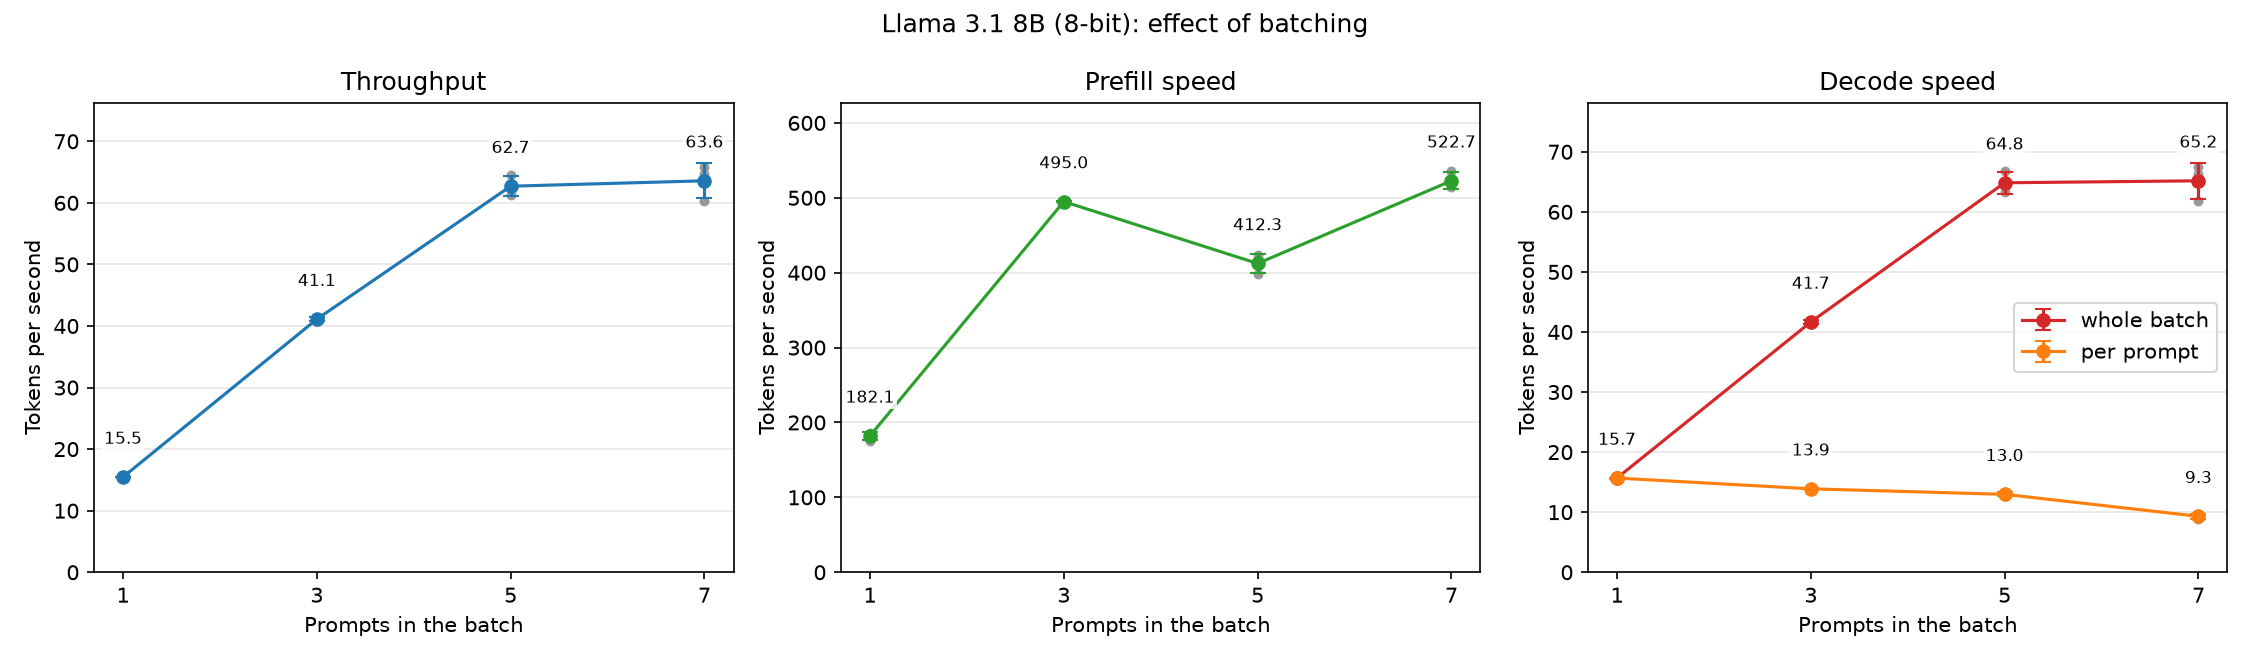
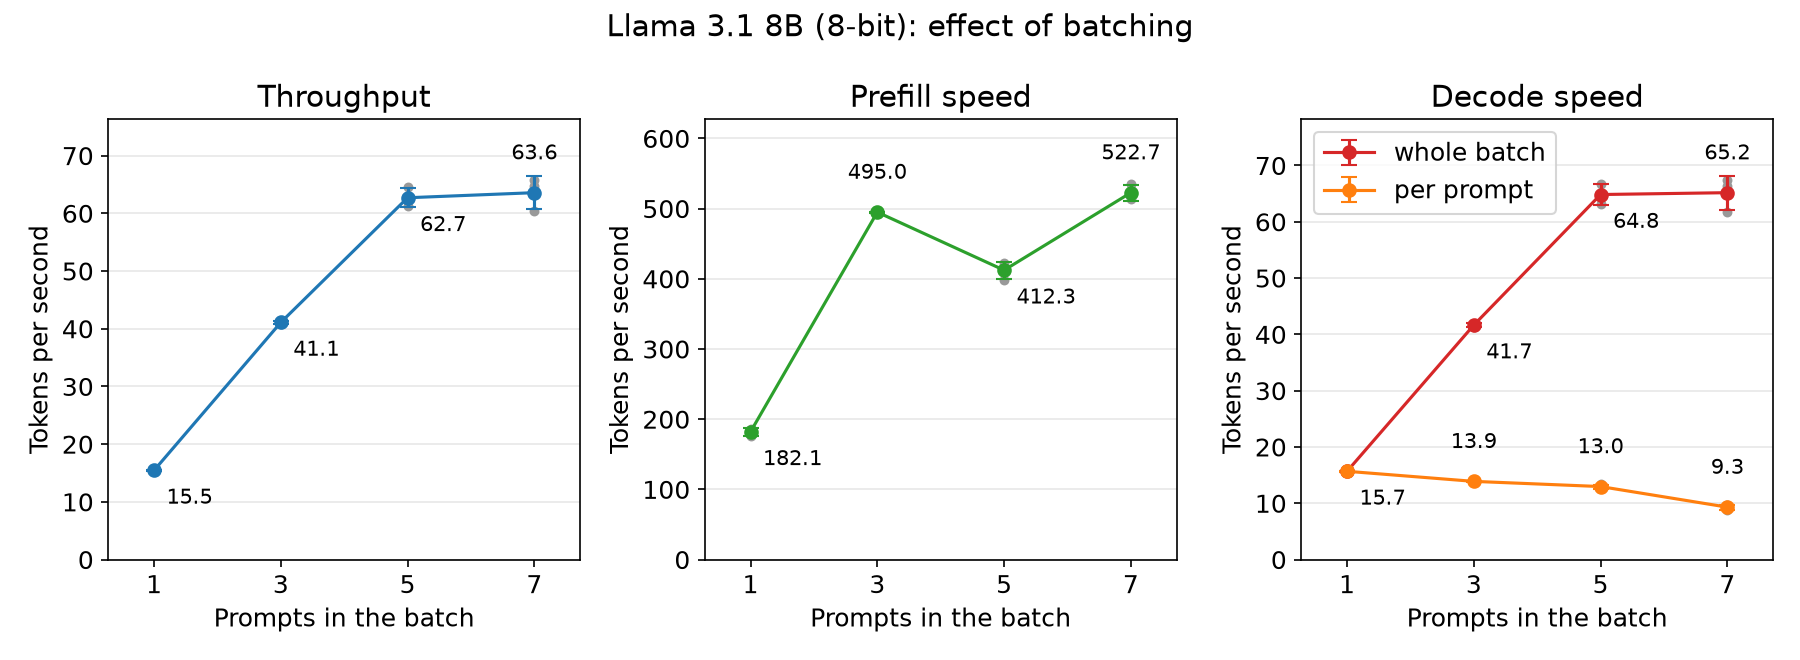
Make the batching plot text larger and keep labels off the lines

diff --git a/results/Experiments/batching_throughput/run_experiment.py b/results/Experiments/batching_throughput/run_experiment.py
@@ -1,4 +1,4 @@
-# Last edited: 2026-10-18 09:50
+# Last edited: 2026-10-18 11:10
 """Measure how batching (1, 3, 5 or 7 prompts at once) changes throughput, prefill speed and decode speed.
 
 Loads the 8-bit Llama 3.1 8B once. For each batch size it runs 1 warm-up trial (dropped) and 3 measured
@@ -109,7 +109,9 @@ def summarize(trial_rows: list[dict]) -> list[dict]:
     return summary
 
 
-def draw_line(ax, trial_rows: list[dict], summary: list[dict], metric: str, color: str, label: str) -> None:
+def draw_line(
+    ax, trial_rows: list[dict], summary: list[dict], metric: str, color: str, label: str, skip_first=False
+) -> None:
     """One metric's mean (with std error bars and labels) and its trials as grey dots."""
     means = [float(s[f"mean_{metric}"]) for s in summary]
     stds = [float(s[f"std_{metric}"]) for s in summary]
@@ -117,22 +119,19 @@ def draw_line(ax, trial_rows: list[dict], summary: list[dict], metric: str, colo
         values = measured(trial_rows, n, metric)
         ax.scatter([n] * len(values), values, color="0.6", s=14, zorder=2)
     ax.errorbar(BATCH_SIZES, means, yerr=stds, marker="o", color=color, capsize=4, zorder=3, label=label)
-    for n, m in zip(BATCH_SIZES, means, strict=True):
-        ax.annotate(
-            f"{m:.1f}",
-            (n, m),
-            textcoords="offset points",
-            xytext=(0, 16),
-            ha="center",
-            fontsize=8,
-            bbox={"boxstyle": "round,pad=0.15", "fc": "white", "ec": "none", "alpha": 0.85},
-            zorder=4,
-        )
+    for i, (n, m) in enumerate(zip(BATCH_SIZES, means, strict=True)):
+        if skip_first and i == 0:
+            continue  # same point as another line's first label
+        rising = i + 1 < len(means) and means[i + 1] > m
+        # A line that rises out of the point would cross a label above it, so the label goes below it.
+        offset, align = ((6, -16), "left") if rising else ((0, 16), "center")
+        ax.annotate(f"{m:.1f}", (n, m), textcoords="offset points", xytext=offset, ha=align, fontsize=10)
 
 
 def plot(trial_rows: list[dict], summary: list[dict]) -> None:
     """Three panels: throughput, prefill speed, and decode speed (whole batch and per prompt)."""
-    fig, axes = plt.subplots(1, 3, figsize=(15, 4.4))
+    plt.rcParams.update({"font.size": 12})  # the plot is printed small in the book, so keep text large
+    fig, axes = plt.subplots(1, 3, figsize=(12, 4.4))
     panels = [
         (axes[0], "Throughput", [("throughput_tps", "tab:blue", None)]),
         (axes[1], "Prefill speed", [("prefill_tps", "tab:green", None)]),
@@ -146,16 +145,17 @@ def plot(trial_rows: list[dict], summary: list[dict]) -> None:
         ),
     ]
     for ax, title, lines in panels:
-        for metric, color, label in lines:
-            draw_line(ax, trial_rows, summary, metric, color, label)
+        for k, (metric, color, label) in enumerate(lines):
+            draw_line(ax, trial_rows, summary, metric, color, label, skip_first=k > 0)
         top = max(float(s[f"mean_{lines[0][0]}"]) for s in summary)
         ax.set_ylim(0, top * 1.2)
         ax.set_xticks(BATCH_SIZES)
+        ax.margins(x=0.12)  # room so the labels at 1 and 7 stay inside the axes
         ax.set_xlabel("Prompts in the batch")
         ax.set_ylabel("Tokens per second")
         ax.set_title(title)
         ax.grid(axis="y", alpha=0.3)
-    axes[2].legend(loc="center right")
+    axes[2].legend(loc="upper left")
     fig.suptitle("Llama 3.1 8B (8-bit): effect of batching")
     fig.tight_layout()
     fig.savefig(PLOT_PATH, dpi=150)
